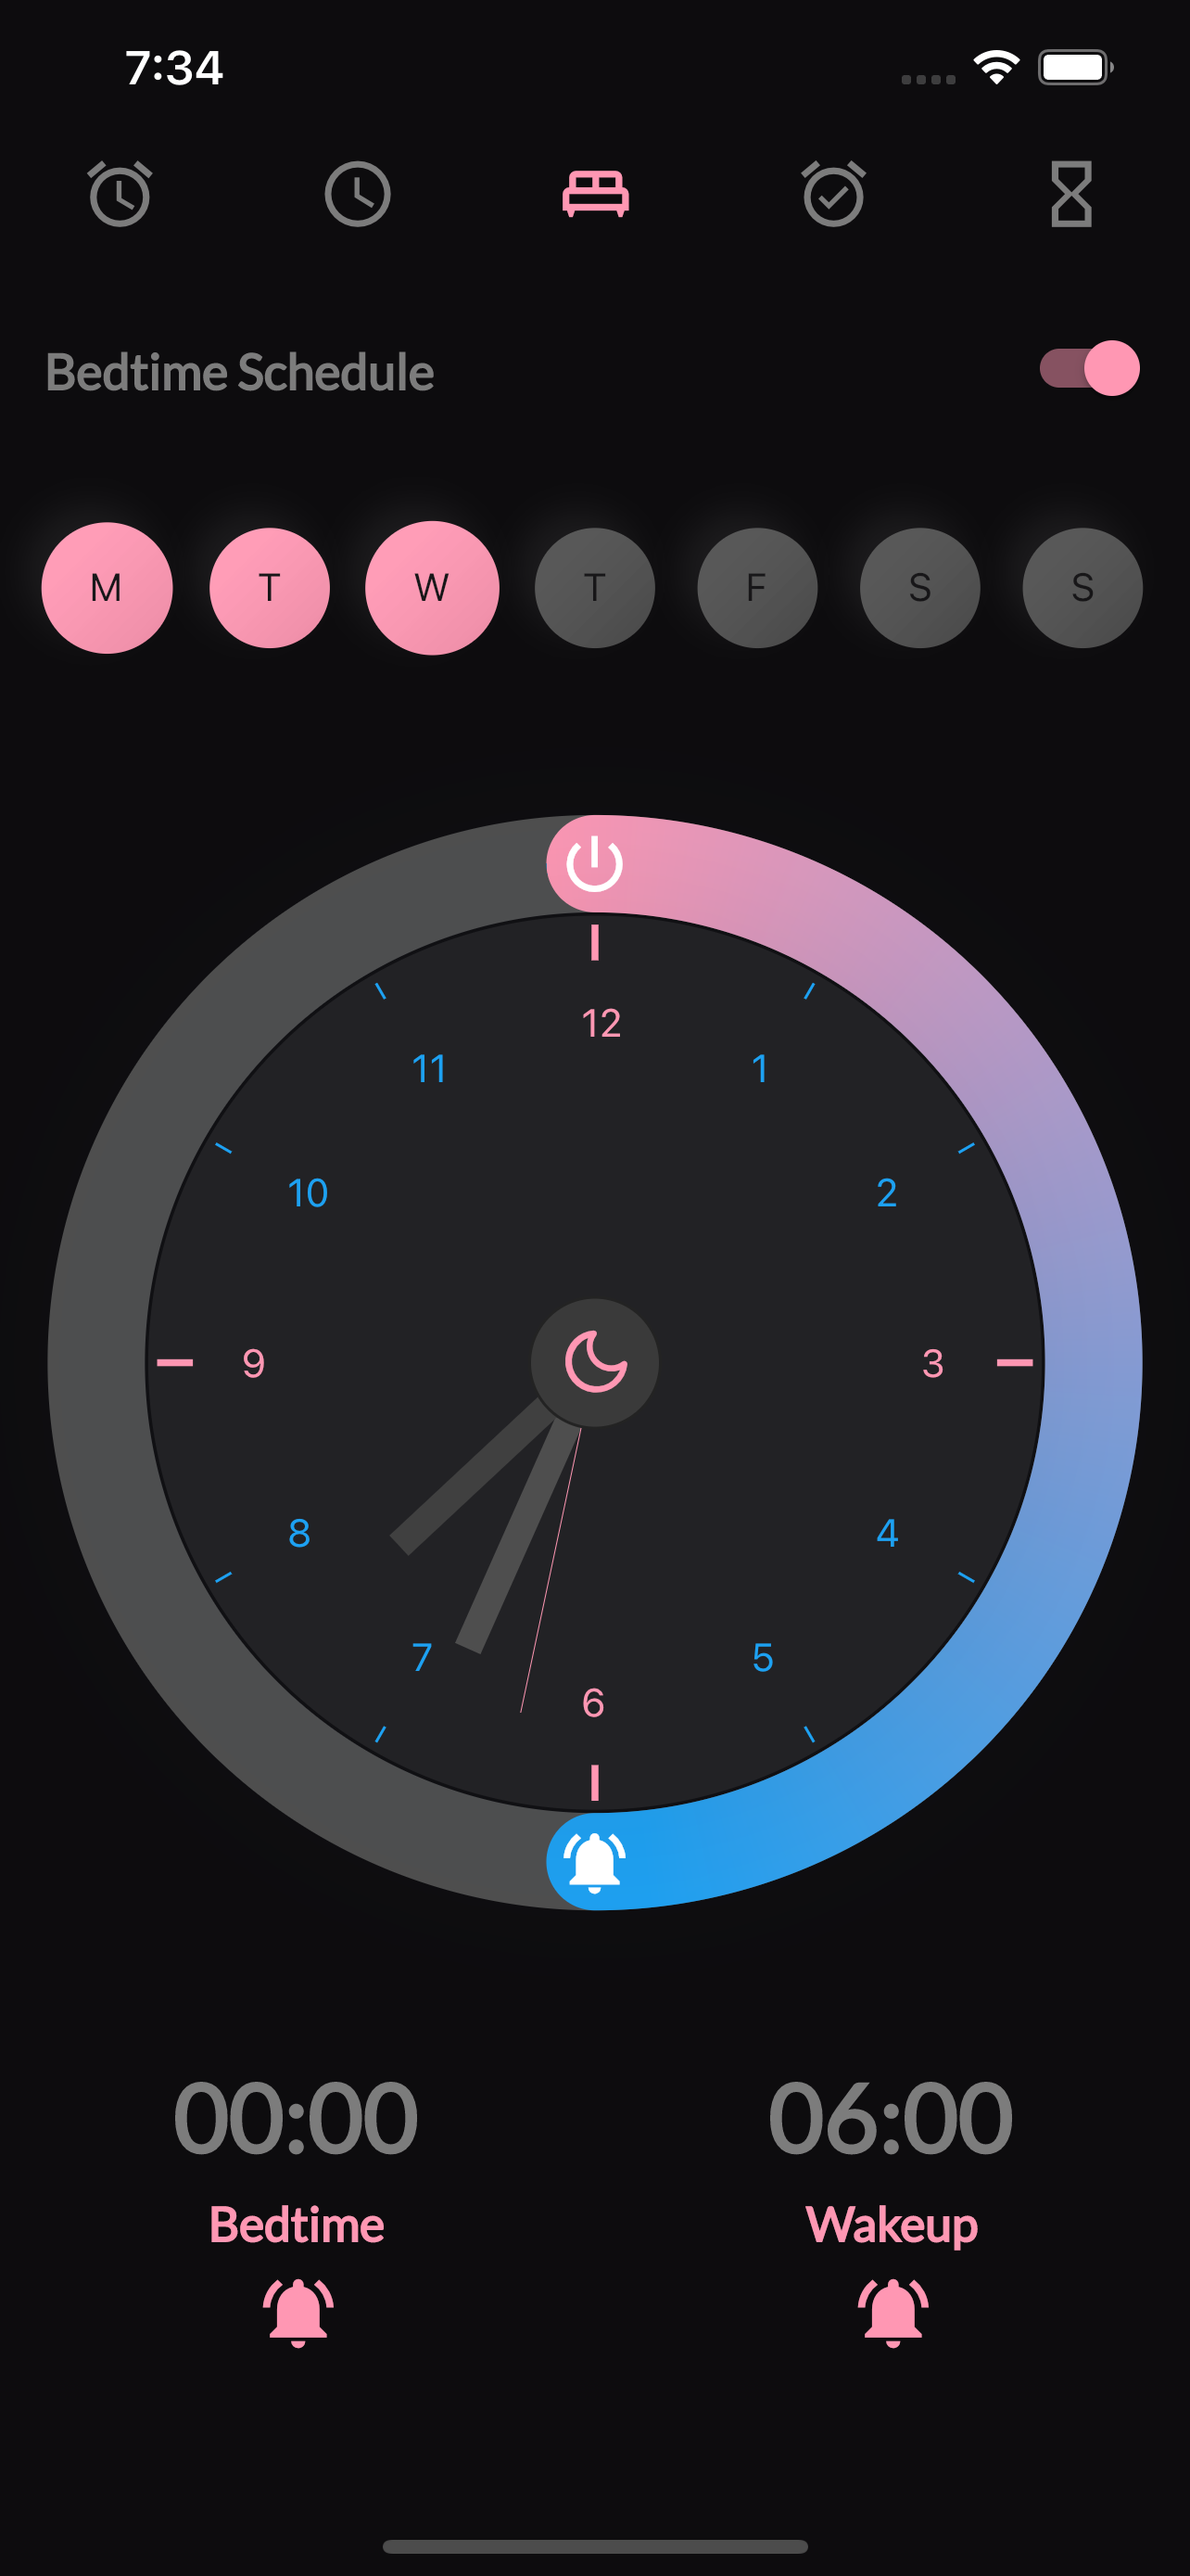
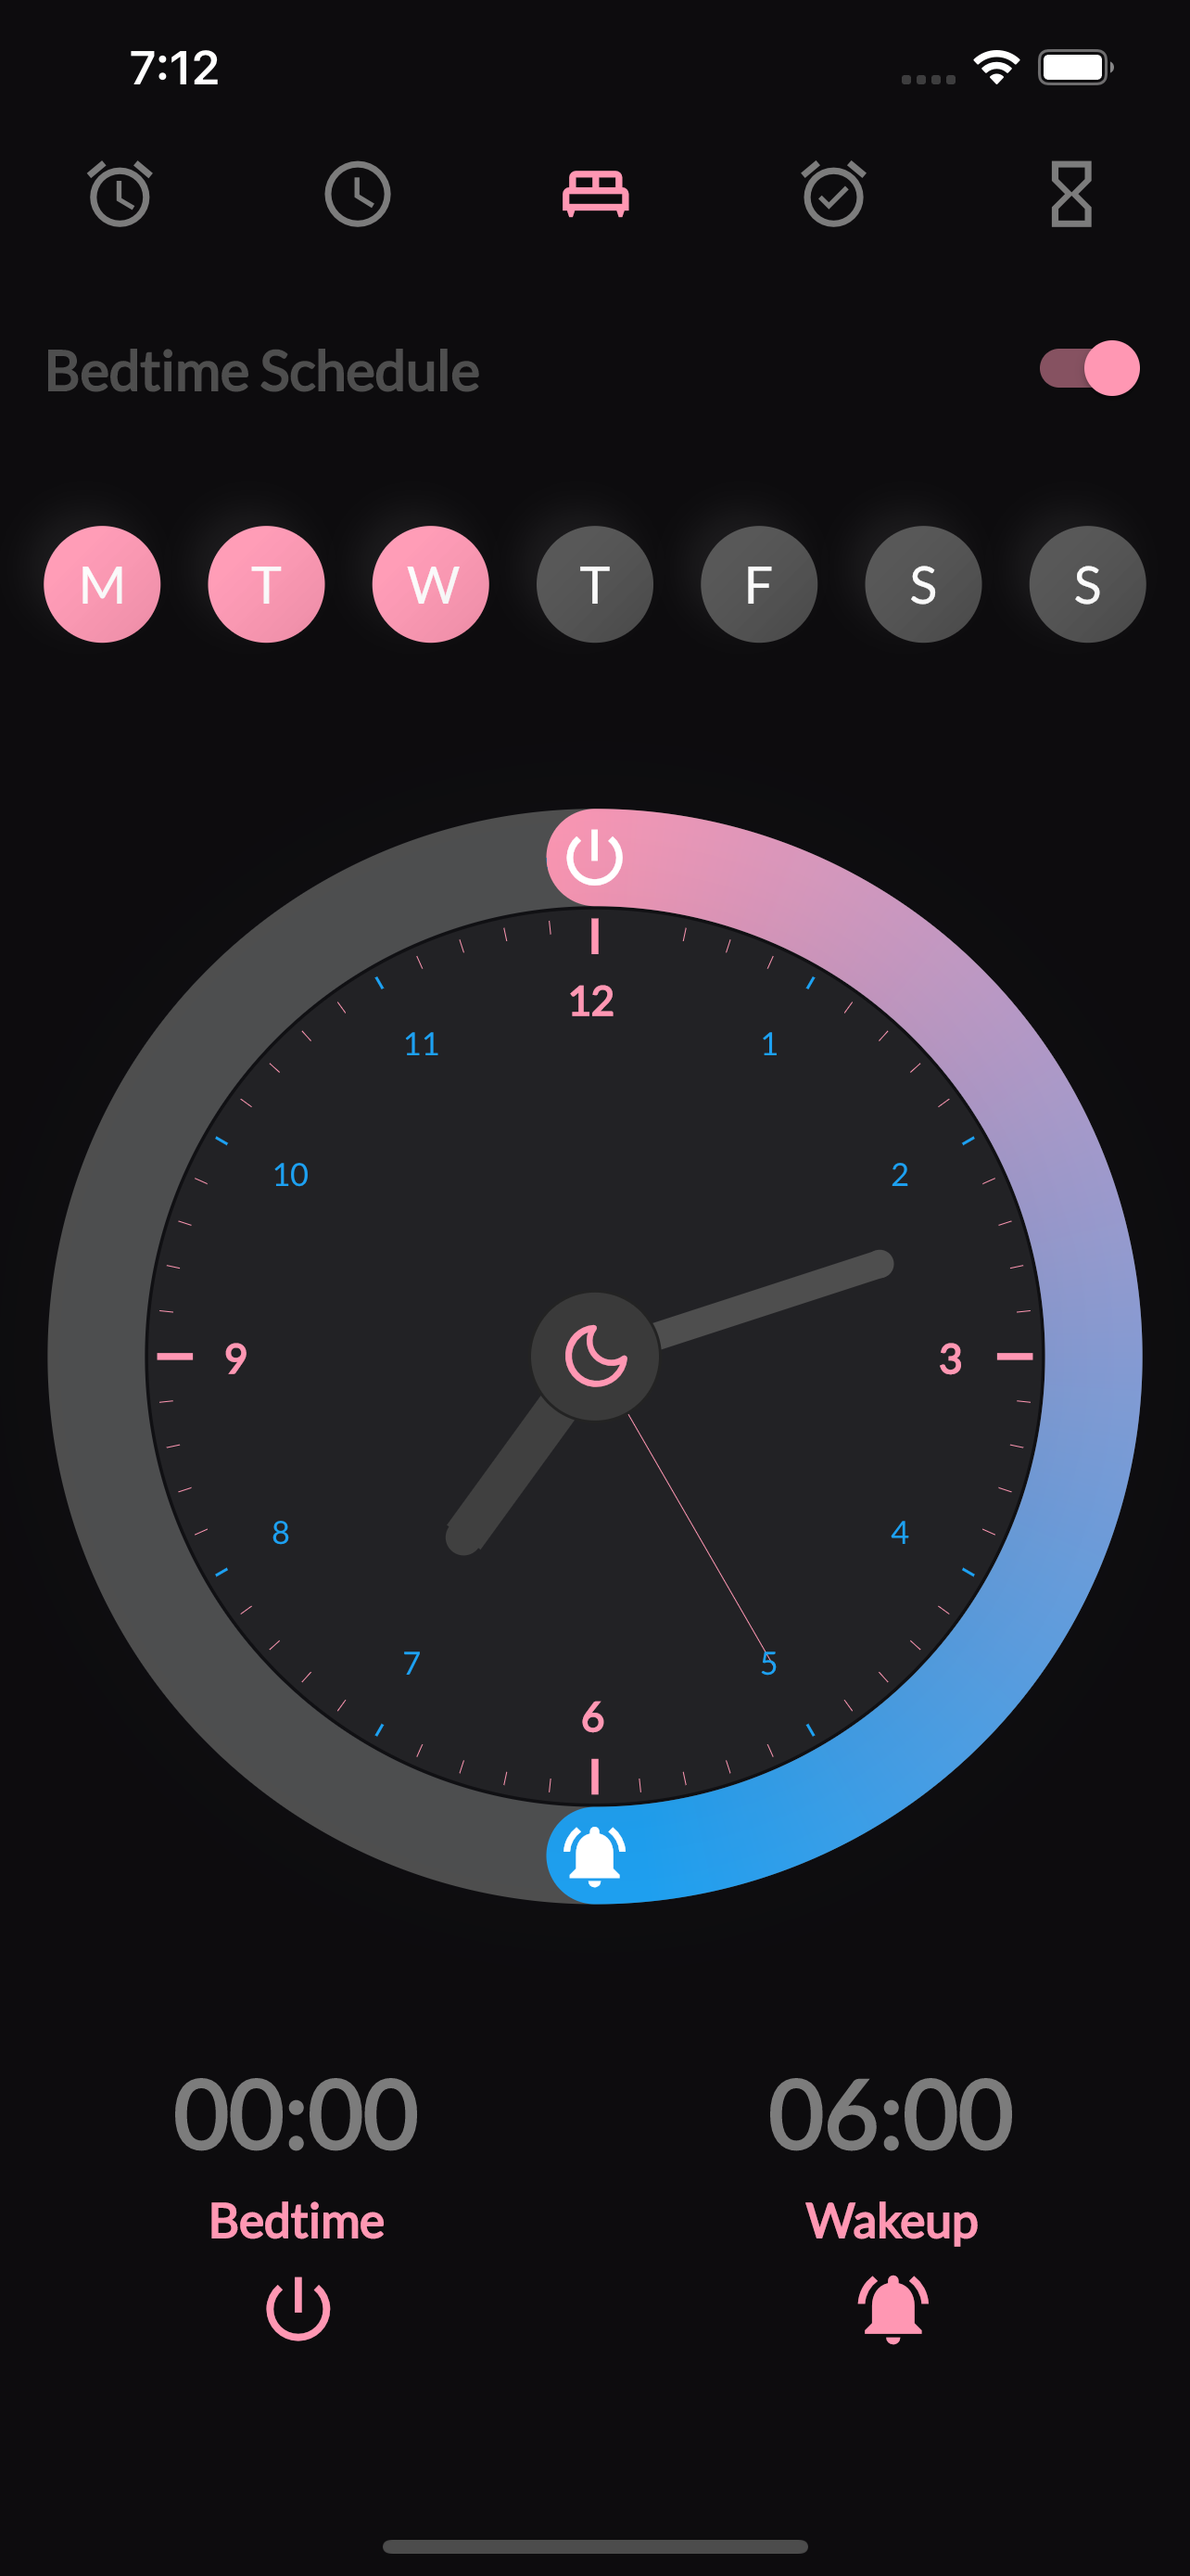
draw line for second

diff --git a/lib/src/pages/home/widgets/clock_painter.dart b/lib/src/pages/home/widgets/clock_painter.dart
@@ -72,11 +72,11 @@ class ClockPainter extends CustomPainter {
       Paint()
         ..color = Theme.of(context).colorScheme.secondary
         ..style = PaintingStyle.stroke
-        ..strokeWidth = 12.0,
+        ..strokeWidth = 15.0,
     );
     canvas.drawCircle(
       Offset(hourX, hourY),
-      1.2,
+      1.5,
       Paint()
         ..color = Theme.of(context).colorScheme.secondary
         ..style = PaintingStyle.stroke
@@ -94,6 +94,19 @@ class ClockPainter extends CustomPainter {
     // Second Line
     canvas.drawLine(center, Offset(secondX, secondY),
         Paint()..color = Theme.of(context).primaryColor);
+
+    // Draw minute
+    for (int i = 2; i < 60; i++) {
+      if ([5, 10, 15, 20, 25, 30, 35, 40, 45, 50, 55].contains(i) == false) {
+        double startX = centerX + size.width * 0.475 * cos((i * 6) * pi / 180);
+        double startY = centerY + size.width * 0.475 * sin((i * 6) * pi / 180);
+        double endX = centerX + size.width * 0.49 * cos((i * 6) * pi / 180);
+        double endY = centerY + size.width * 0.49 * sin((i * 6) * pi / 180);
+
+        canvas.drawLine(Offset(startX, startY), Offset(endX, endY),
+            Paint()..color = Theme.of(context).primaryColor);
+      }
+    }
 
     // Draw time,
     // 12h
